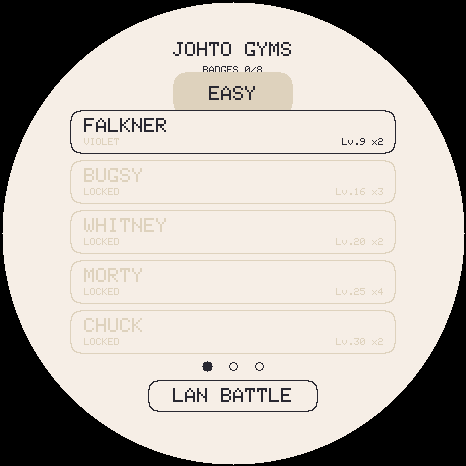
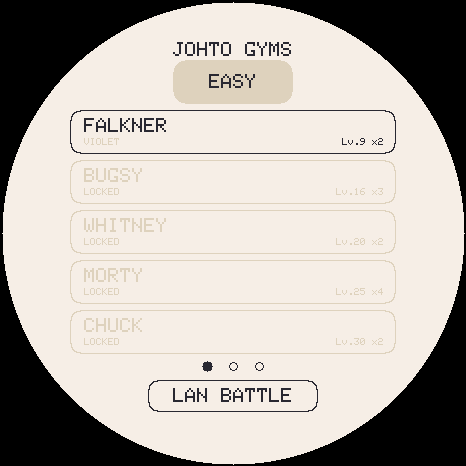
Lift the gym difficulty pill and drop the badge count behind it
The badge count sat directly behind the EASY/HARD pill. The region
chooser already shows it per region -- which is where you pick a ladder
from -- so it was redundant as well as in the way.

Removing it made room to lift the pill, which needed lifting for a
reason I had not noticed: enlarging it to a real tap target took it from
72..100 to 72..116, and the first leader row begins at 110. It had been
sitting on top of Falkner.

That is the third overlap of the same kind, after BOX against CLOSE and
the battle grid against BACK, so hit_test now checks it through
gymHeaderRects() rather than waiting for it to be spotted on hardware.

Changed region(s): [[0.3605, 0.1202, 0.6309, 0.2403]]

diff --git a/tools/emu/tests/hit_test.cpp b/tools/emu/tests/hit_test.cpp
@@ -31,6 +31,7 @@ void startBattle(int16_t dex, uint8_t lvl);
 int btlCellIndexAt(int16_t x, int16_t y);
 void partyButtonRects(int *boxTop, int *boxBot, int *closeTop, int *closeBot);
 void uiButtonHeights(int *out, int max, int *n);
+void gymHeaderRects(int *pillTop, int *pillBot, int *rowTop);
 
 static int bad=0;
 static void ck(bool ok,const char*w){printf("%s  %s\n",ok?"PASS":"FAIL",w); if(!ok)bad++;}
@@ -126,6 +127,13 @@ int main(){
     for (int i = 0; i < n; i++) printf(" %d", h[i]);
     printf(" px\n");
     ck(small == 0, "every primary button is at least 44 px tall");
+  }
+
+  {
+    int pt, pb, rt;
+    gymHeaderRects(&pt, &pb, &rt);
+    ck(pb < rt, "the gym difficulty pill does not sit on the first leader row");
+    printf("      pill %d..%d, first row at %d\n", pt, pb, rt);
   }
 
   printf("%s\n", bad?"FAILURES":"all good");
